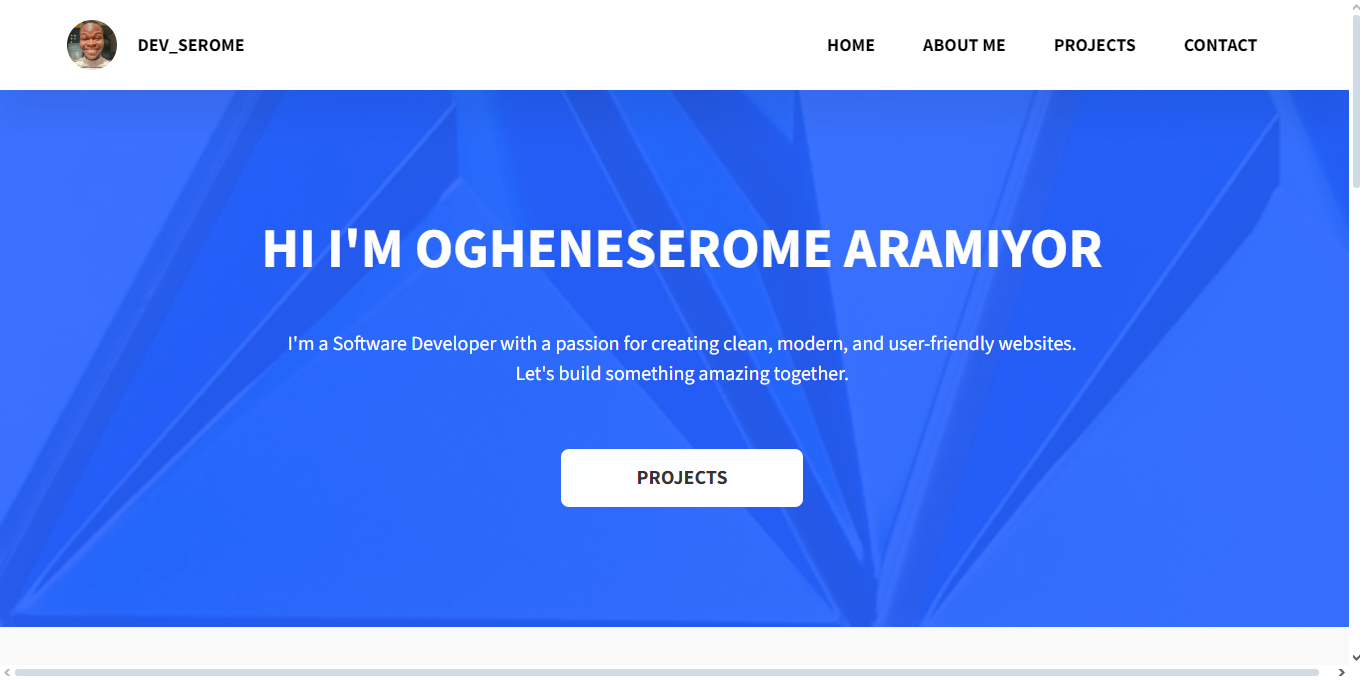
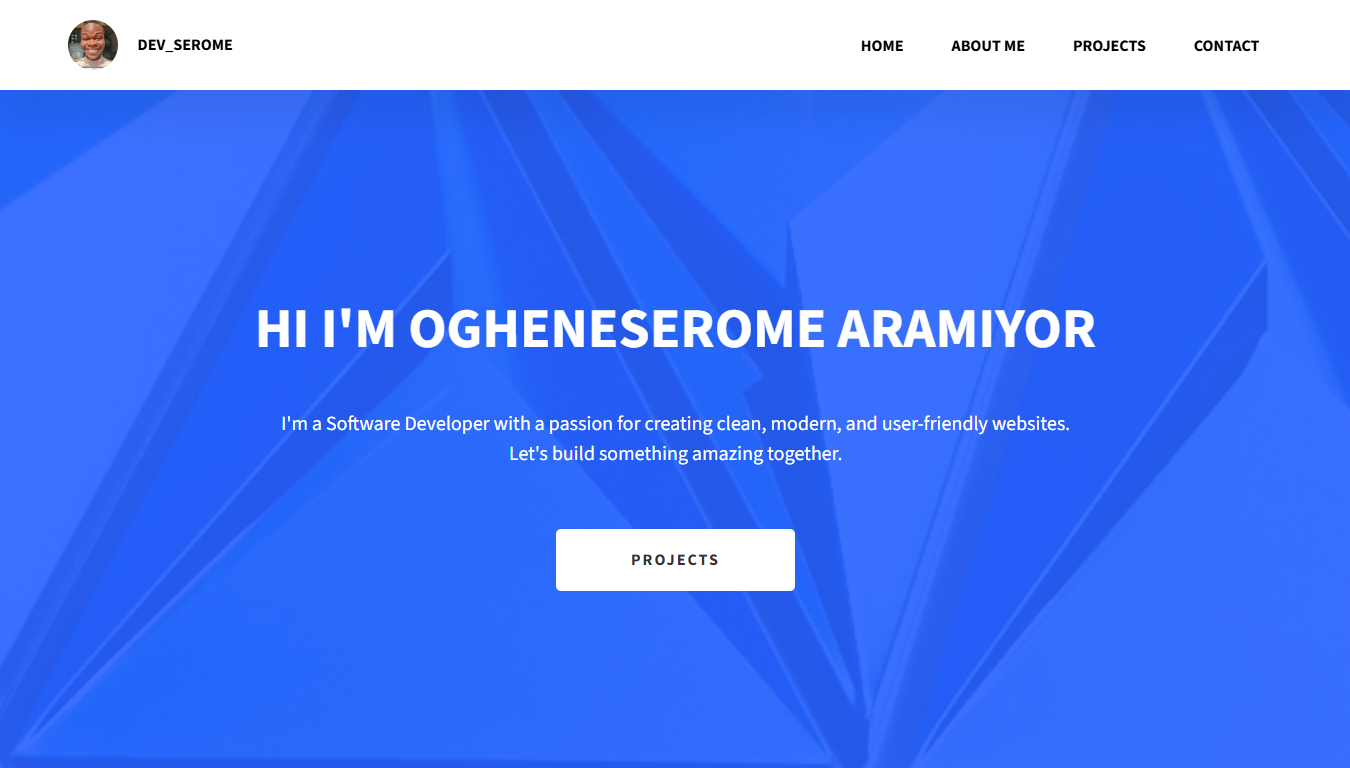
footer section added v1.0.0

diff --git a/index.html b/index.html
@@ -44,9 +44,9 @@
     <main>
         <section class="home-hero">
             <div class="home-hero__content">
-                <h1>Hi I'm Ogheneserome Aramiyor</h1>
-                <p>I'm a Software Developer with a passion for creating clean, modern, and user-friendly websites.</p>
-                <p class="home-hero__content__para-last">Let's build something amazing together.</p>
+                <h1>Hi, <br>I'm Ogheneserome Aramiyor, <br> a Software Developer</h1>
+                <p>I build efficient, user-friendly web applications that solve real-world problems.</p>
+                <p class="home-hero__content__para-last">Let’s work together to create something amazing.</p>
                 <a href="#projects" class="home-hero__content__btn">PROJECTS</a>
             </div>
         </section>
@@ -54,13 +54,13 @@
             <div class="main-container">
                 <h2 class="h2-heading">
                     <span class="h2-heading__main">ABOUT ME</span>
-                    <span class="h2-heading__description">Here you will find more information about me, what I do, and my current skills mostly in terms of programming and technology</span>
+                    <span class="h2-heading__description">Here you will find more information about me, what I do, and my current skills.</span>
                 </h2>
                 <div class="about__content-cont">
                     <div class="about__content-item">
                         <h3>Get to know me</h3>
-                        <p>I'm a dedicated Software Developer (Frontend) with over 2 years of experience in building intutive and responsive websites.</p><br>
-                        <p>My journey started with a love for technology and has evolved into a mission to deliver seamless digital solutions.</p>
+                        <p>I'm a passionate software developer with a focus on web development and problem-solving. <br><br> With experience in building functional and efficient solutions, I’m always eager to tackle new challenges and continuously improve my skills.</p><br>
+                        <!-- <p>My journey started with a love for technology and has evolved into a mission to deliver seamless digital solutions.</p> -->
                         <a href="#contact" class="about__content__btn">CONTACT</a>
                     </div>
                     <div class="about__content-item">
@@ -92,7 +92,7 @@
             <div class="main-container">
                 <h2 class="h2-heading">
                     <span class="h2-heading__main">PROJECTS</span>
-                    <span class="h2-heading__description">Lorem ipsum dolor sit amet consectetur adipisicing elit. Voluptates quidem illum omnis eum rerum neque nisi. Eveniet, repellat totam expedita, nulla architecto quidem suscipit</span>
+                    <span class="h2-heading__description">Here are some of my recent projects, showcasing my skills in web development and problem-solving. Each highlights my focus on clean code, functionality, and delivering effective solutions.</span>
                 </h2>
                 <div class="projects-content">
                     <ul class="projects-content__cont">
@@ -134,7 +134,7 @@
             <div class="main-container">
                 <h2 class="h2-heading">
                     <span class="h2-heading__main">CONTACT</span>
-                    <span class="h2-heading__description">Let's get in touch! Whether you have question or just want to say hi, my inbox is always open</span>
+                    <span class="h2-heading__description">Let's get in touch! Whether you have question or just want to say hi, my inbox is always open.</span>
                 </h2>
                 <form>
                     <div class="form_field">
@@ -158,7 +158,24 @@
     </main>
     <footer>
         <div class="main-container">
-            
+            <div class="footer__upper">
+                <div class="footer__content-lf">
+                    <h3>Ogheneserome Aramiyor</h3>
+                    <p>Lorem ipsum dolor sit, amet consectetur adipisicing elit. <br> Nulla atque error quod illo suscipit facilis quis.</p>
+                </div>
+                <div class="footer__content-rgt">
+                    <h3>social</h3>
+                    <ul>
+                        <li><a href="https://www.linkedin.com/in/ogheneserome-aramiyor-7858b52b5?utm_source=share&utm_campaign=share_via&utm_content=profile&utm_medium=android_app" target="_blank"><i class="fa-brands fa-linkedin"></i></a></li>
+                        <li><a href="https://x.com/dev_serome?t=Yb3-T65zzBbWaFxo9VTInA&s=09" target="_blank"><i class="fa-brands fa-square-x-twitter"></i></a></li>
+                        <li><a href="https://github.com/MSeries-kelvin" target="_blank"><i class="fa-brands fa-square-github"></i></a></li>
+                        <li><a href="https://www.instagram.com/dev_serome?igsh=MThpaTB2MGw0N2dkZQ==" target="_blank"><i class="fa-brands fa-square-instagram"></i></a></li>
+                    </ul>
+                </div>
+            </div>
+            <div class="footer__lower">
+                <p>©Copyright 2024. Made with passion 💖</p>
+            </div>
         </div>
     </footer>
     <script src="scripts/index.js"></script>

diff --git a/styles/index.css b/styles/index.css
@@ -221,6 +221,8 @@ section {
     color: #fff;
     padding-left: 40px;
     padding-right: 40px;
+    /* padding-top: 200px; */
+    /* height: calc(100vh - 90px); */
 }
 
 .home-hero__content {
@@ -410,6 +412,12 @@ section {
     }
 }
 
+@media (max-width: 450px) {
+    .project-item-content a {
+        width: 100%;
+    }
+}
+
 
 
 /* -------------------------- contact section -------------------------- */
@@ -510,3 +518,64 @@ section {
         width: 100%;
     }
 }
+
+
+/* ----------------- footer section -------------------- */
+
+footer {
+    background-color: #000;
+    color: #fff;
+    padding: 50px 0;
+}
+
+.footer__upper {
+    display: flex;
+    justify-content: space-between;
+    gap: 80px;
+    margin-bottom: 40px;
+}
+
+.footer__upper h3 {
+    text-transform: uppercase;
+    margin-bottom: 20px;
+}
+
+.footer__content-rgt ul {
+    list-style: none;
+    display: flex;
+    gap: 20px;
+}
+
+.footer__content-rgt ul li a {
+    font-size: 30px;
+    color: #fff;
+}
+
+.footer__lower {
+    border-top: 1px solid #9c9c9c;
+    padding-top: 40px;
+    text-align: center;
+}
+
+<footer>
+    <div class="main-container">
+        <div class="footer__upper">
+            <div class="footer__content-lf">
+                <h3>Ogheneserome Aramiyor</h3>
+                <p>Lorem ipsum dolor sit, amet consectetur adipisicing elit. Nulla atque error quod illo suscipit facilis quis.</p>
+            </div>
+            <div class="footer__content-rgt">
+                <h3>social</h3>
+                <ul>
+                    <li><a href="https://www.linkedin.com/in/ogheneserome-aramiyor-7858b52b5?utm_source=share&utm_campaign=share_via&utm_content=profile&utm_medium=android_app" target="_blank"><i class="fa-brands fa-linkedin"></i></a></li>
+                    <li><a href="https://x.com/dev_serome?t=Yb3-T65zzBbWaFxo9VTInA&s=09" target="_blank"><i class="fa-brands fa-square-x-twitter"></i></a></li>
+                    <li><a href="https://github.com/MSeries-kelvin"><i class="fa-brands fa-square-github" target="_blank"></i></a></li>
+                    <li><a href="https://www.instagram.com/dev_serome?igsh=MThpaTB2MGw0N2dkZQ==" target="_blank"><i class="fa-brands fa-square-instagram"></i></a></li>
+                </ul>
+            </div>
+        </div>
+        <div class="footer__lower">
+            <p>&copf; Copyright {new Date().getYear()}. Made by Ogheneserome Aramiyor</p>
+        </div>
+    </div>
+</footer>
